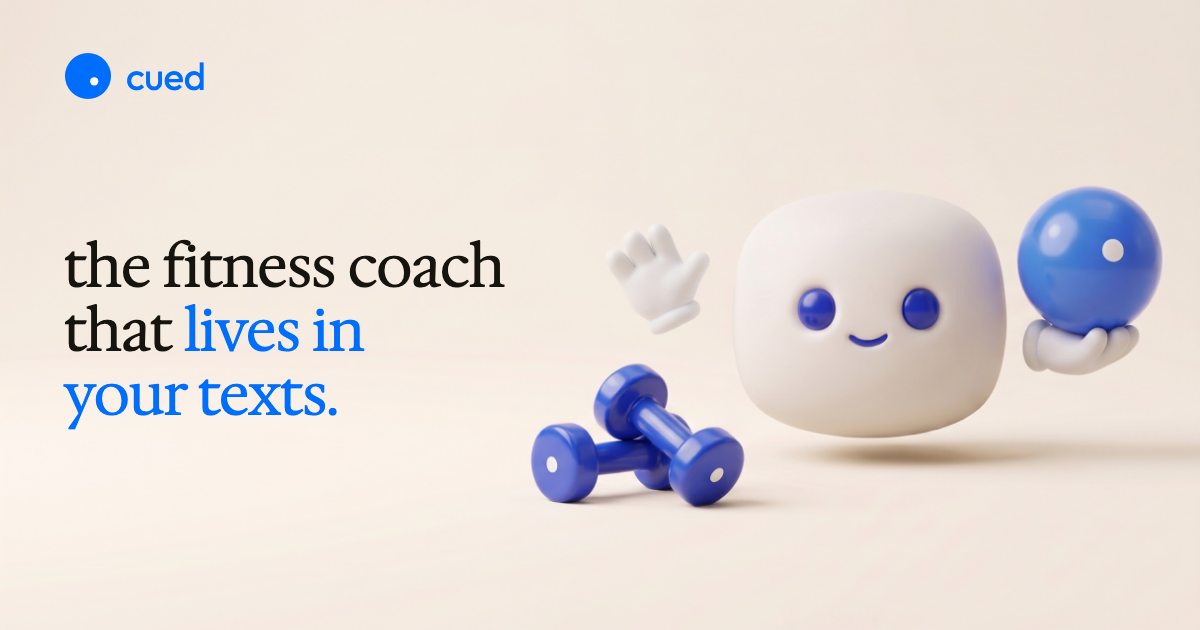
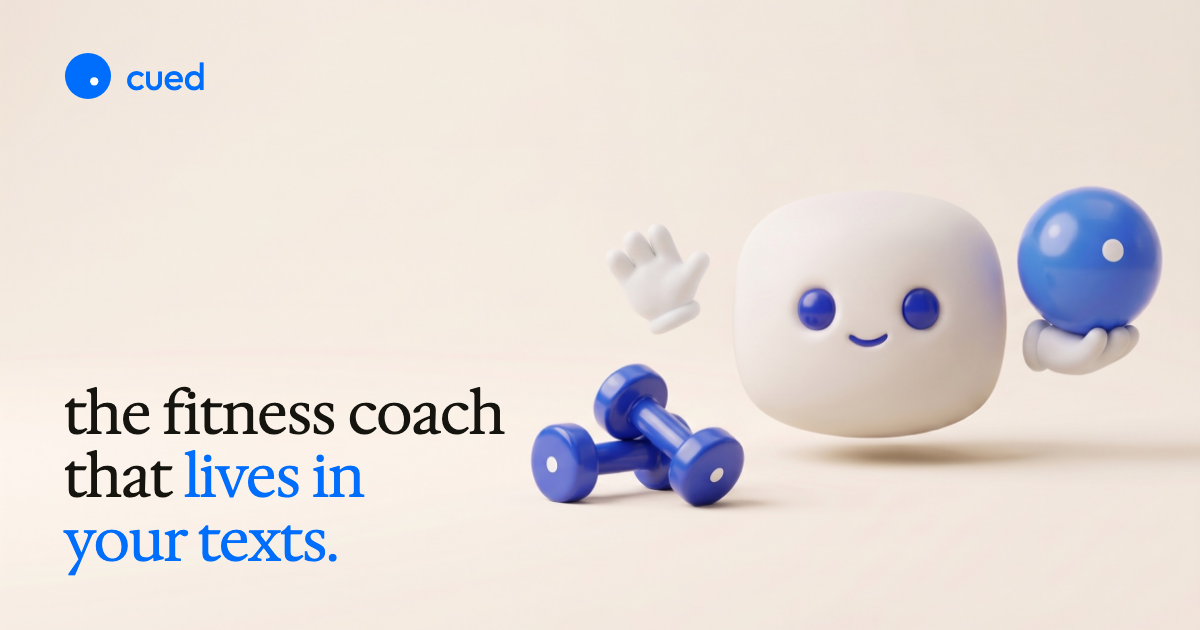
demo-site share card: tagline back in the bottom-left corner

diff --git a/CLAUDE.md b/CLAUDE.md
@@ -102,6 +102,6 @@ Below the hero, the tour is a plain vertical flow (`.sec--pin` is now just a hoo
 - `images/hero-drawing.png` — the `the-one.png` Campanile drawing, cropped to the art band (1920×650), paper-gray background keyed to transparency, ink recolored to the brand blue. Referenced by the `index.html` hero, shown fully drawn at load (the SVG stroke-mask trace machinery remains but is set complete — see the `.hero-art` comment in `index.html`).
 - `images/dinner-plate.jpg` — real plate photo (tri-tip, sweet potatoes, broccoli/cauliflower) sent as the user's photo attachment in the "i know what's for dinner" section (1000×855 JPEG).
 - `images/tj-receipt.jpg` — real Trader Joe's receipt photo (Berkeley, 1885 University Ave), formerly the user's photo attachment in the "i read receipts" section (972×1200 JPEG). Unreferenced since the 2026-10-05 tour compression; kept in case the receipt beat returns.
-- `images/og-image-cued.png` and `og-image-cued-square.png` are the root page's link-preview cards (previous design's blue, `#1086FF`; still need regenerating). `images/og-image-cued-v2.png` (1200×630) is the demo-site's wide card: the founder's wide render (mascot waving with the cue ball, dumbbells on the floor; `.context/og/wide-bg.jpg`) covering the card, the brand top-left and "the fitness coach / that lives in / your texts." in the empty left third; `og-image-cued-v2-square.png` (1024²) is the ball render with the brand in the centre band — composed in `.context/og/card.html` / `square.html` and rendered with headless Chrome (2026-11-14). The demo page's tags use ABSOLUTE `https://cued.fit/…` URLs (root-relative ones are ignored by iMessage/Slack/X scrapers), WIDE first (Instagram crops the first image to landscape — square-first cut the brand off; verified in an Instagram DM 2026-11-14), square second with its brand placed in the centre band so a landscape crop keeps it, and `og:video` pointing at the hero's first clip, which iMessage plays in the bubble (confirmed); everything else shows the image. Card line: "the fitness coach that lives in your texts."
+- `images/og-image-cued.png` and `og-image-cued-square.png` are the root page's link-preview cards (previous design's blue, `#1086FF`; still need regenerating). `images/og-image-cued-v2.png` (1200×630) is the demo-site's wide card: the founder's wide render (mascot waving with the cue ball, dumbbells on the floor; `.context/og/wide-bg.jpg`) covering the card, the brand top-left and "the fitness coach / that lives in / your texts." stacked in the bottom-left corner; `og-image-cued-v2-square.png` (1024²) is the ball render with the brand in the centre band — composed in `.context/og/card.html` / `square.html` and rendered with headless Chrome (2026-11-14). The demo page's tags use ABSOLUTE `https://cued.fit/…` URLs (root-relative ones are ignored by iMessage/Slack/X scrapers), WIDE first (Instagram crops the first image to landscape — square-first cut the brand off; verified in an Instagram DM 2026-11-14), square second with its brand placed in the centre band so a landscape crop keeps it, and `og:video` pointing at the hero's first clip, which iMessage plays in the bubble (confirmed); everything else shows the image. Card line: "the fitness coach that lives in your texts."
 - Assets from previous design generations (hero backgrounds, `the-one.png` source drawing, wearable photo) remain in `images/` but are unreferenced by `index.html`.
 - Git LFS is configured for `videos/*.mp4` (see `.gitattributes`).
